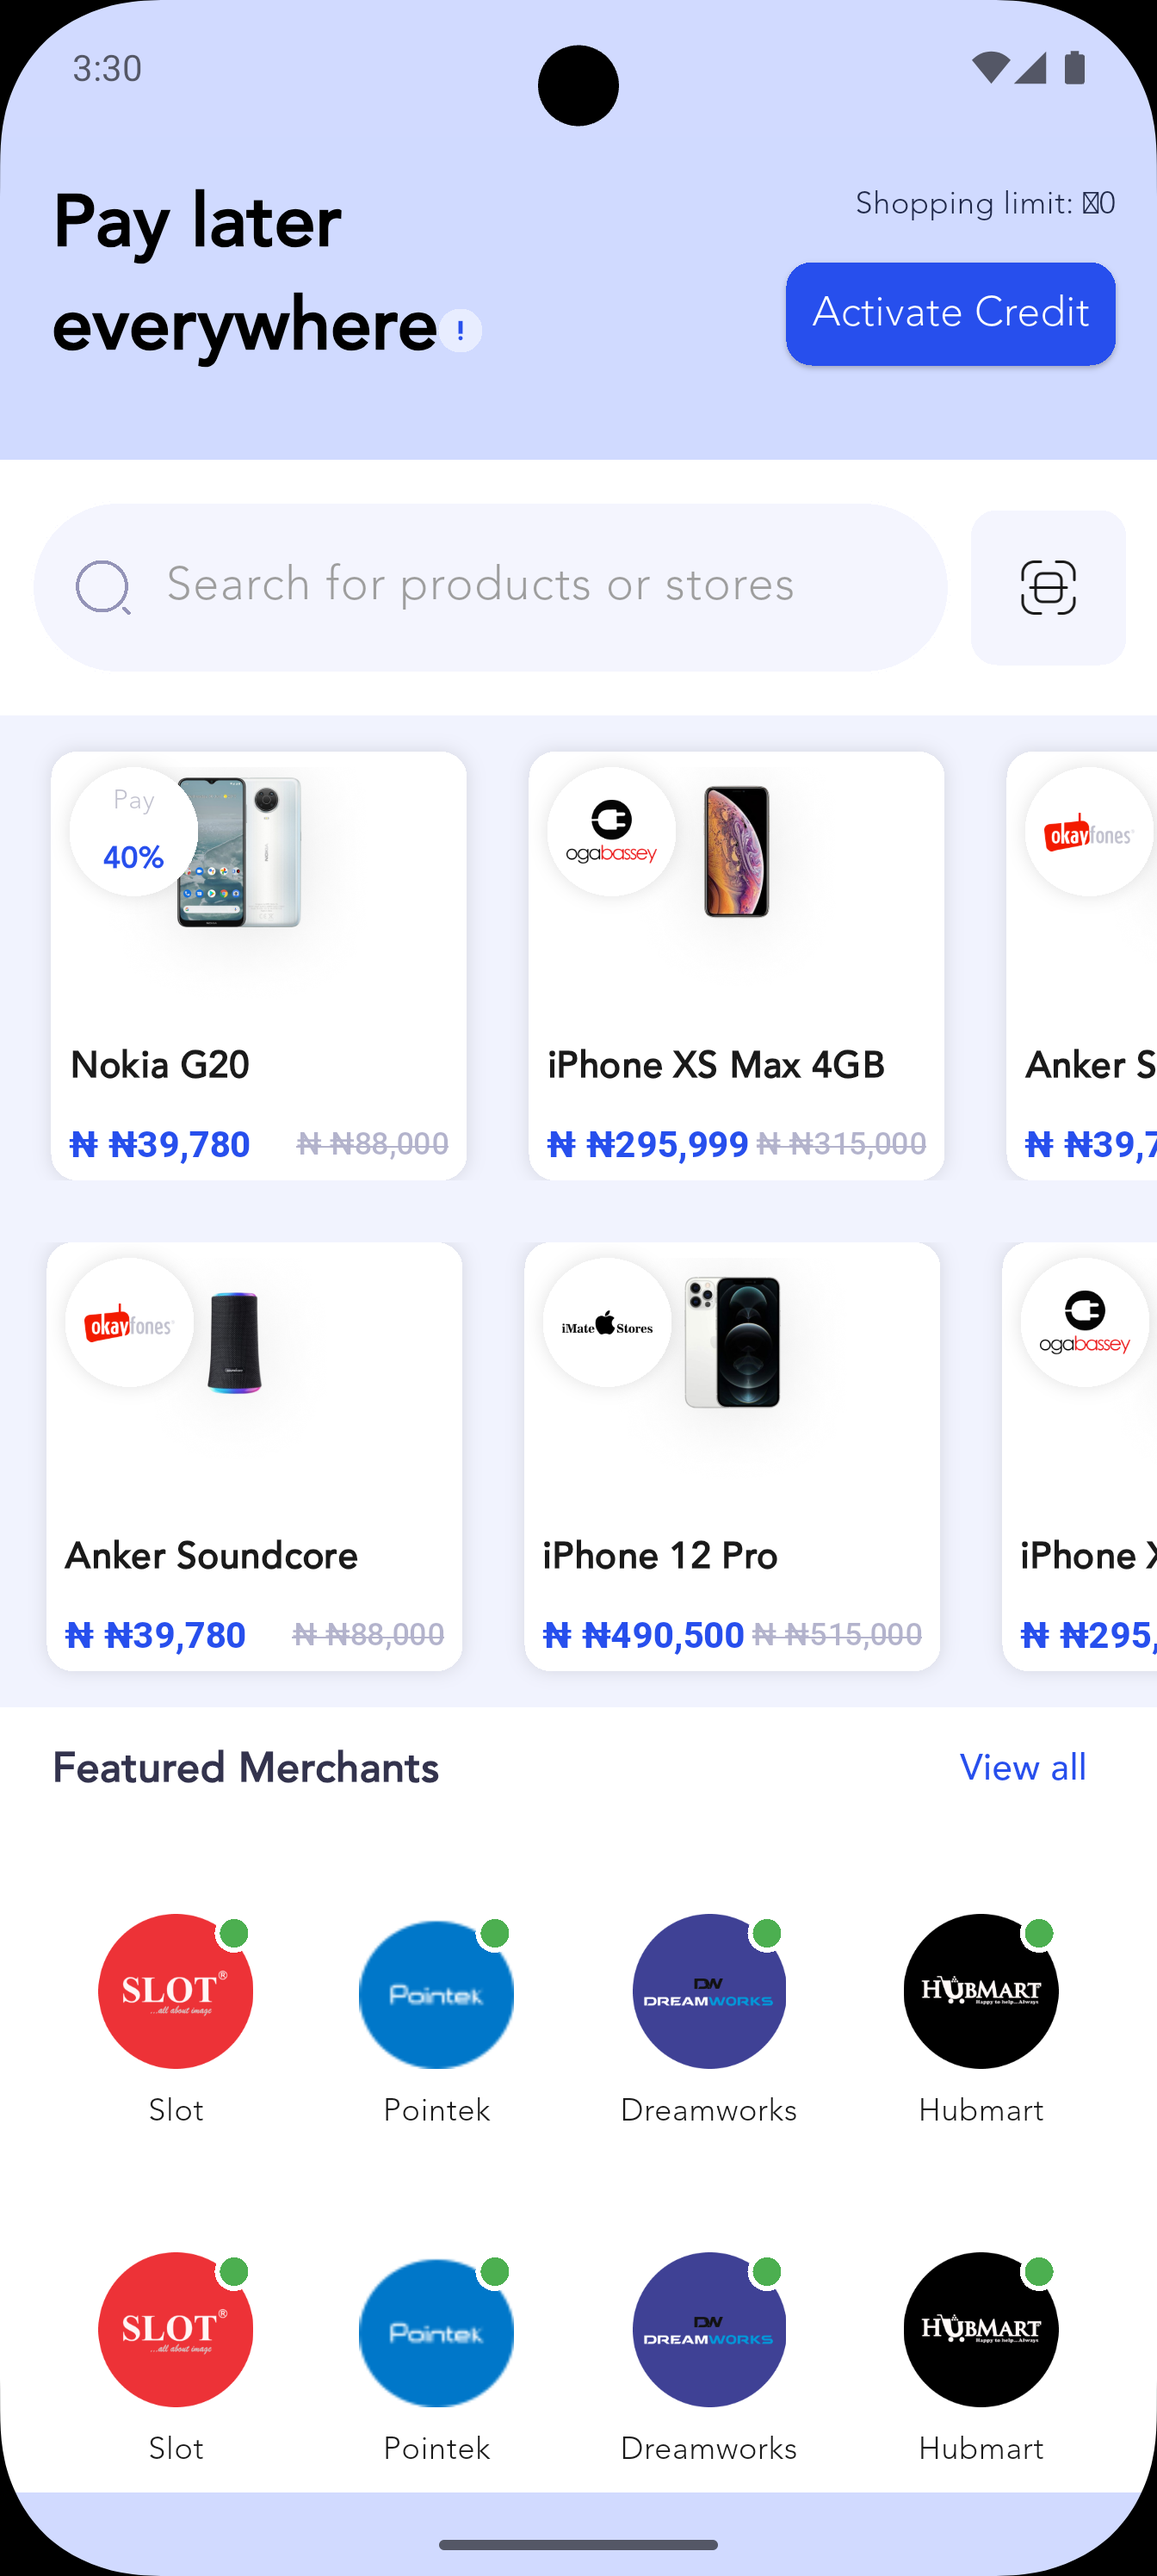
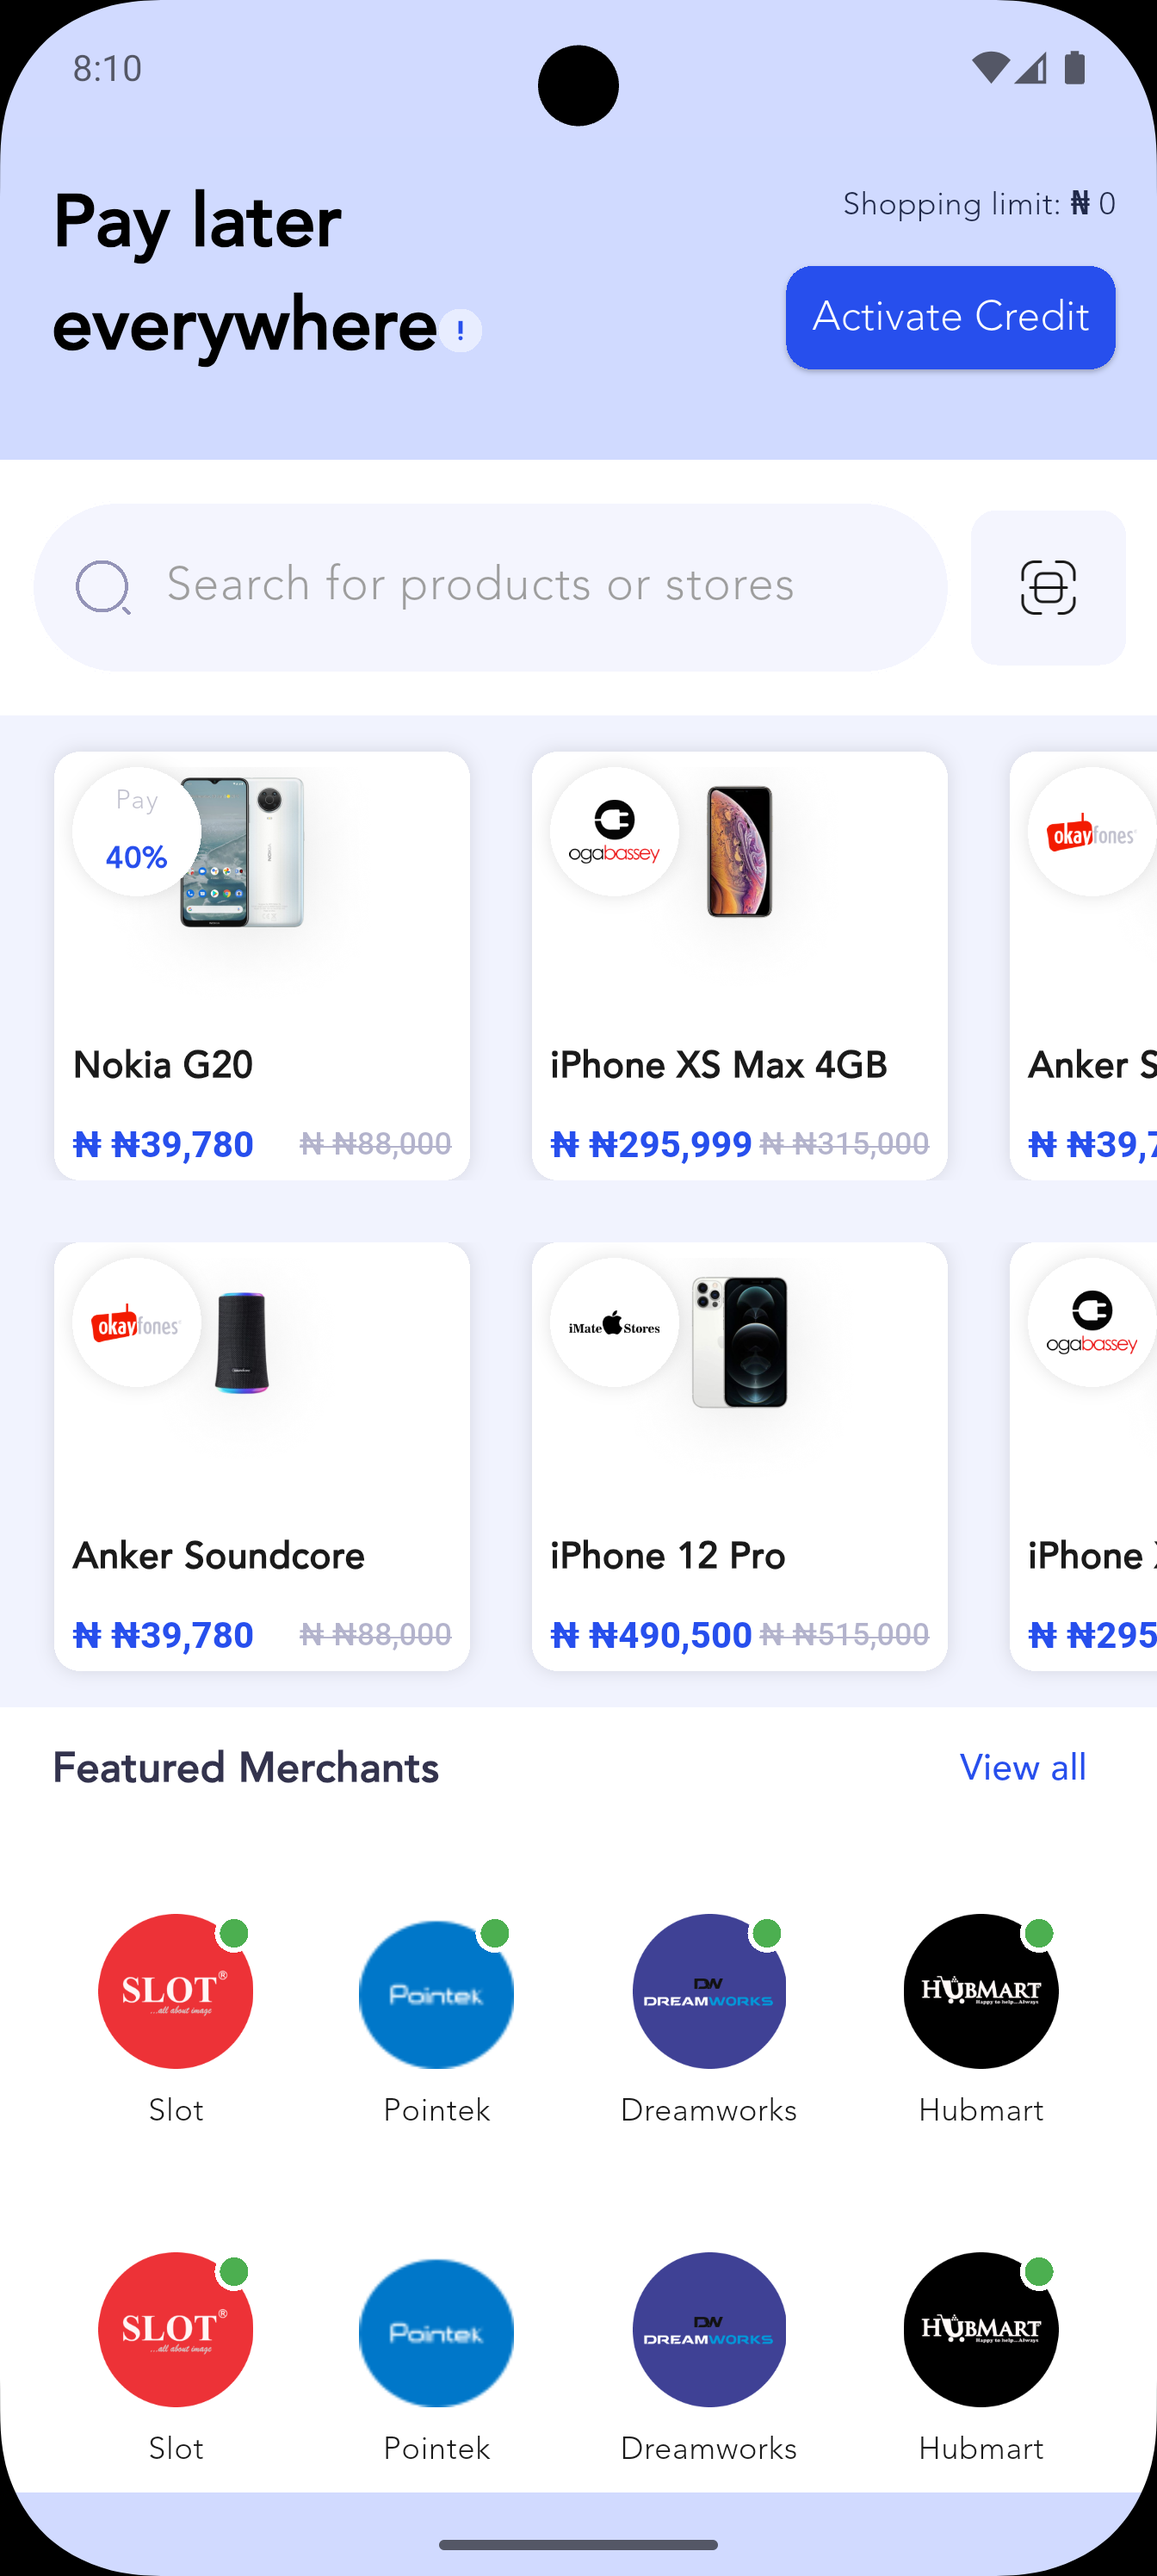
Update merchant active state

diff --git a/lib/screens/home.dart b/lib/screens/home.dart
@@ -12,6 +12,7 @@ import 'package:credpal_test/widgets/search_button.dart';
 import 'package:flutter/material.dart';
 import 'package:flutter_bloc/flutter_bloc.dart';
 import 'package:flutter_svg/flutter_svg.dart';
+import 'package:google_fonts/google_fonts.dart';
 
 class Home extends StatelessWidget {
   const Home({super.key});
@@ -104,12 +105,36 @@ class TopSection extends StatelessWidget {
           Column(
             crossAxisAlignment: CrossAxisAlignment.end,
             children: [
-              const Text(
-                'Shopping limit: ₦0',
-                style: TextStyle(
-                  fontWeight: FontWeight.w500,
-                  fontSize: 12,
-                  color: Color(0xff20294A),
+              Text.rich(
+                TextSpan(
+                  children: [
+                    const TextSpan(
+                      text: 'Shopping limit: ',
+                      style: TextStyle(
+                        fontWeight: FontWeight.w500,
+                        fontSize: 12,
+                        color: Color(0xff20294A),
+                      ),
+                    ),
+                    TextSpan(
+                      text: '₦',
+                      style: GoogleFonts.notoSans(
+                        textStyle: const TextStyle(
+                          fontWeight: FontWeight.bold,
+                          fontSize: 13,
+                          color: Color(0xff20294A),
+                        ),
+                      ),
+                    ),
+                    const TextSpan(
+                      text: ' 0',
+                      style: TextStyle(
+                        fontWeight: FontWeight.w500,
+                        fontSize: 12,
+                        color: Color(0xff20294A),
+                      ),
+                    ),
+                  ],
                 ),
               ),
               const SizedBox(height: Dimensions.space2),

diff --git a/lib/models/mock/dummy.dart b/lib/models/mock/dummy.dart
@@ -97,12 +97,12 @@ class Dummy {
       ),
       Merchant(
         image: 'assets/images/pointek.png',
-        isActive: true,
+        isActive: false,
         name: 'Pointek',
       ),
       Merchant(
         image: 'assets/images/dreamworks.png',
-        isActive: true,
+        isActive: false,
         name: 'Dreamworks',
       ),
       Merchant(

diff --git a/README.md b/README.md
@@ -15,14 +15,11 @@ For help getting started with Flutter development, view the [online documentatio
 ## Observations and Assumptions
 
 - **Performance**: Flutter generally provides good performance due to its efficient rendering engine. It is important to avoid unnecessary widget rebuilds to keep the app running smoothly.
-
 - **Code Organization**: It's crucial to maintain a clean separation between the UI and business logic. A well-organized code structure improves maintainability and helps the app scale easily.
-
 - **State Management with BLoC**: The app uses BLoC for state management, which helps in separating business logic from the UI, making the app more scalable and testable.
-
 - **Navigation with GoRouter**: GoRouter is used for handling navigation, providing a declarative and structured approach to managing routes and deep linking within the app.
-
-- **Asset Management**: Some images in the project aren't being used currently, but it is assumed that they could be utilized when data is fetched dynamically from a REST API. This could involve displaying images based on data received from the API, such as product images or user profiles.
+- **Asset Management**: Some images in the project aren't being used currently, but it is assumed that they could be utilized when data is fetched dynamically from a REST API. This could involve displaying images based on data received from the API, such as product images or merchants.
+- Merchants would be fetched from an API and can either be active or inactive, hence the green dot at the top right of the merchant, the merchants without the greeen dots are inactive
 
 ## How to Run and Build the App
 
